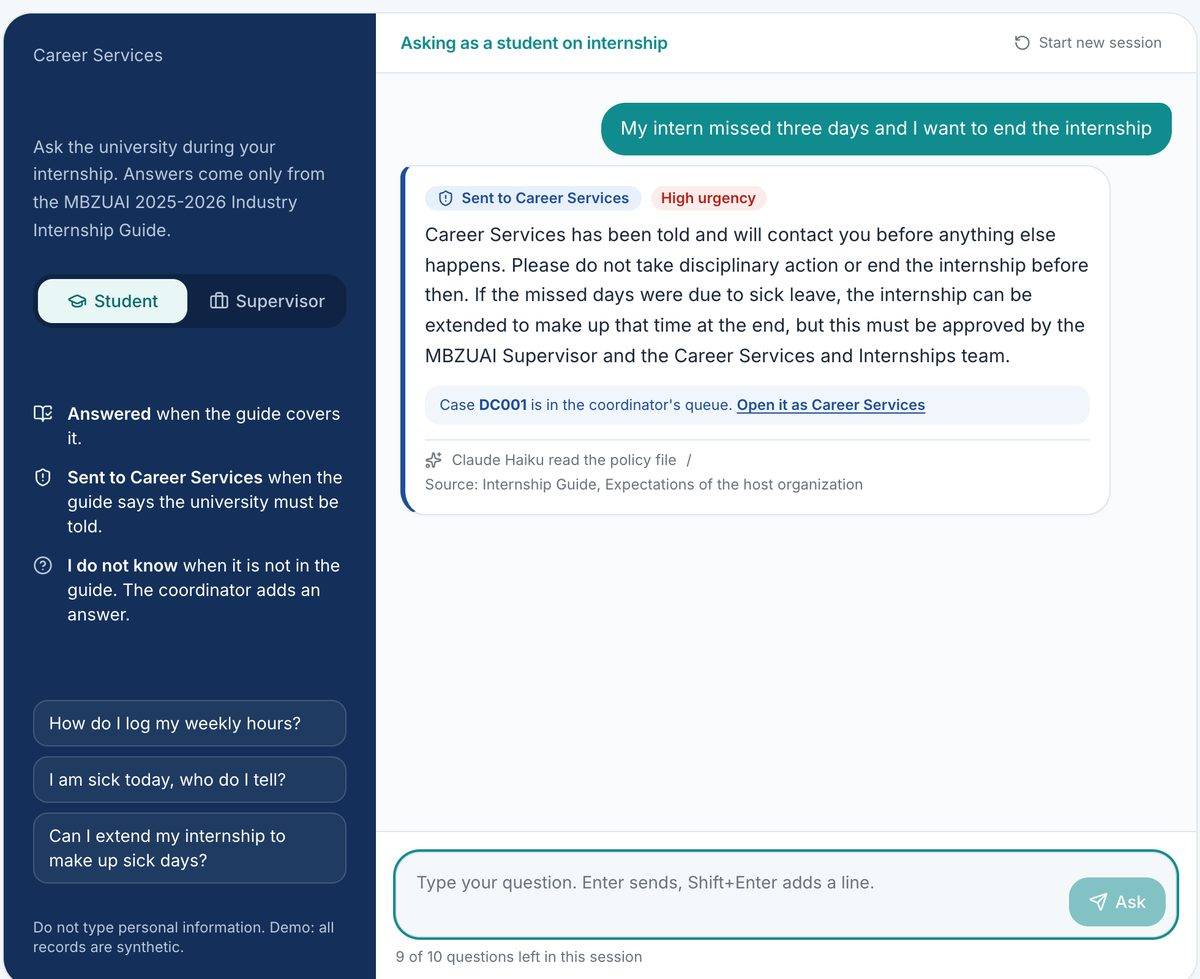
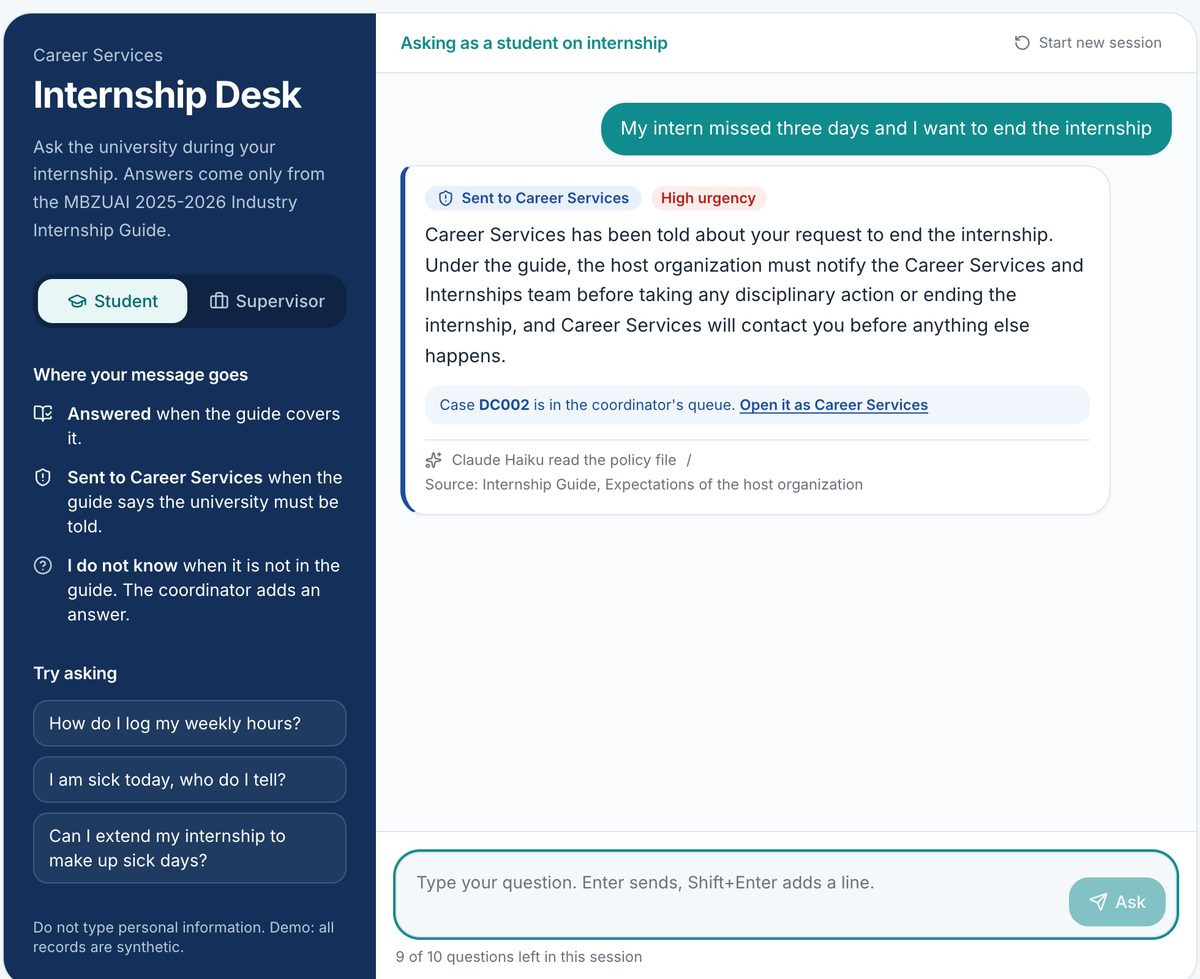
Bring Team 1 and Team 5 back into the Launchpad app: collapsed P05 matching panel under Recommended, footer links to earlier team pages; headings on navy panels readable (#11)

diff --git a/src/components/AppShell.tsx b/src/components/AppShell.tsx
@@ -36,6 +36,15 @@ const NAV: Record<View, NavItem[]> = {
   ],
 };
 
+// Earlier team pages, kept reachable from the footer without changing Group 2's menus.
+const TEAM_PAGES = [
+  { to: "/faq", label: "Approved FAQ (Team 1)" },
+  { to: "/student", label: "Student record (Team 1)" },
+  { to: "/faculty", label: "Faculty view (Team 1)" },
+  { to: "/matches", label: "Matches (Team 5)" },
+  { to: "/p03", label: "Review and publication (Team 3)" },
+] as const;
+
 const VIEWS: { id: View; label: string; home: string }[] = [
   { id: "student", label: "Student", home: "/opportunities" },
   { id: "employer", label: "Employer", home: "/employer" },
@@ -197,6 +206,17 @@ export function AppShell({ children, wide = false }: { children: ReactNode; wide
               Interface and employer side by{" "}
               <span className="font-medium text-heading">Group 2 (P02, Employer)</span>, with parts
               from Teams 1, 3 and 5.
+            </p>
+            <p className="mt-1 text-xs text-muted-foreground">
+              More from the teams:{" "}
+              {TEAM_PAGES.map((t, i) => (
+                <span key={t.to}>
+                  {i > 0 && " · "}
+                  <Link to={t.to} className={`hover:text-foreground hover:underline ${focus}`}>
+                    {t.label}
+                  </Link>
+                </span>
+              ))}
             </p>
           </div>
           <button

diff --git a/src/components/p05/P05Panel.tsx b/src/components/p05/P05Panel.tsx
@@ -1,0 +1,37 @@
+import { ChevronDown, Layers } from "lucide-react";
+import { useState } from "react";
+import { focus } from "@/components/p02/ui";
+import { DEMO_STUDENT_ID } from "@/lib/ipp-store";
+import { P05Matches } from "./P05Matches";
+
+/**
+ * Team 5 (P05) matching engine as an optional, collapsed panel under Group 2's recommendations.
+ * Nothing loads until it is opened; it reads the shared database (demo slice when offline).
+ */
+export function P05Panel() {
+  const [open, setOpen] = useState(false);
+  return (
+    <section className="mb-6 rounded-xl border border-border bg-card">
+      <button
+        type="button"
+        aria-expanded={open}
+        onClick={() => setOpen((o) => !o)}
+        className={`flex w-full items-center justify-between gap-2 px-4 py-3 text-left text-sm font-medium ${focus}`}
+      >
+        <span className="inline-flex items-center gap-1.5">
+          <Layers aria-hidden="true" className="h-4 w-4 text-primary" /> Compare with Team 5's
+          matching engine (P05) · shared database, rules or AI
+        </span>
+        <ChevronDown
+          aria-hidden="true"
+          className={`h-4 w-4 transition-transform ${open ? "rotate-180" : ""}`}
+        />
+      </button>
+      {open && (
+        <div className="border-t border-border px-4 py-4">
+          <P05Matches studentId={DEMO_STUDENT_ID} />
+        </div>
+      )}
+    </section>
+  );
+}

diff --git a/src/routes/opportunities.index.tsx b/src/routes/opportunities.index.tsx
@@ -13,6 +13,7 @@ import {
   Panel,
   RoleGate,
 } from "@/components/p02/ui";
+import { P05Panel } from "@/components/p05/P05Panel";
 import { DEMO_PROFILES } from "@/lib/p02/data";
 import { canRecommend, recommend, type Match } from "@/lib/p02/match";
 import { commit, logAi, openListings, studentById, useLaunchpad } from "@/lib/p02/store";
@@ -258,6 +259,8 @@ function Opportunities() {
             </>
           )}
         </section>
+
+        <P05Panel />
 
         <Panel className="mb-6 p-4">
           <div className="grid gap-3 md:grid-cols-[1fr_10rem_10rem_10rem]">

diff --git a/src/styles.css b/src/styles.css
@@ -219,6 +219,11 @@
     letter-spacing: -0.015em;
   }
 
+  /* Headings on the navy panel (Internship Desk, P05 cards) take the panel's light text. */
+  .bg-panel :is(h1, h2, h3) {
+    color: inherit;
+  }
+
   h1 {
     font-weight: 800;
     letter-spacing: -0.02em;
